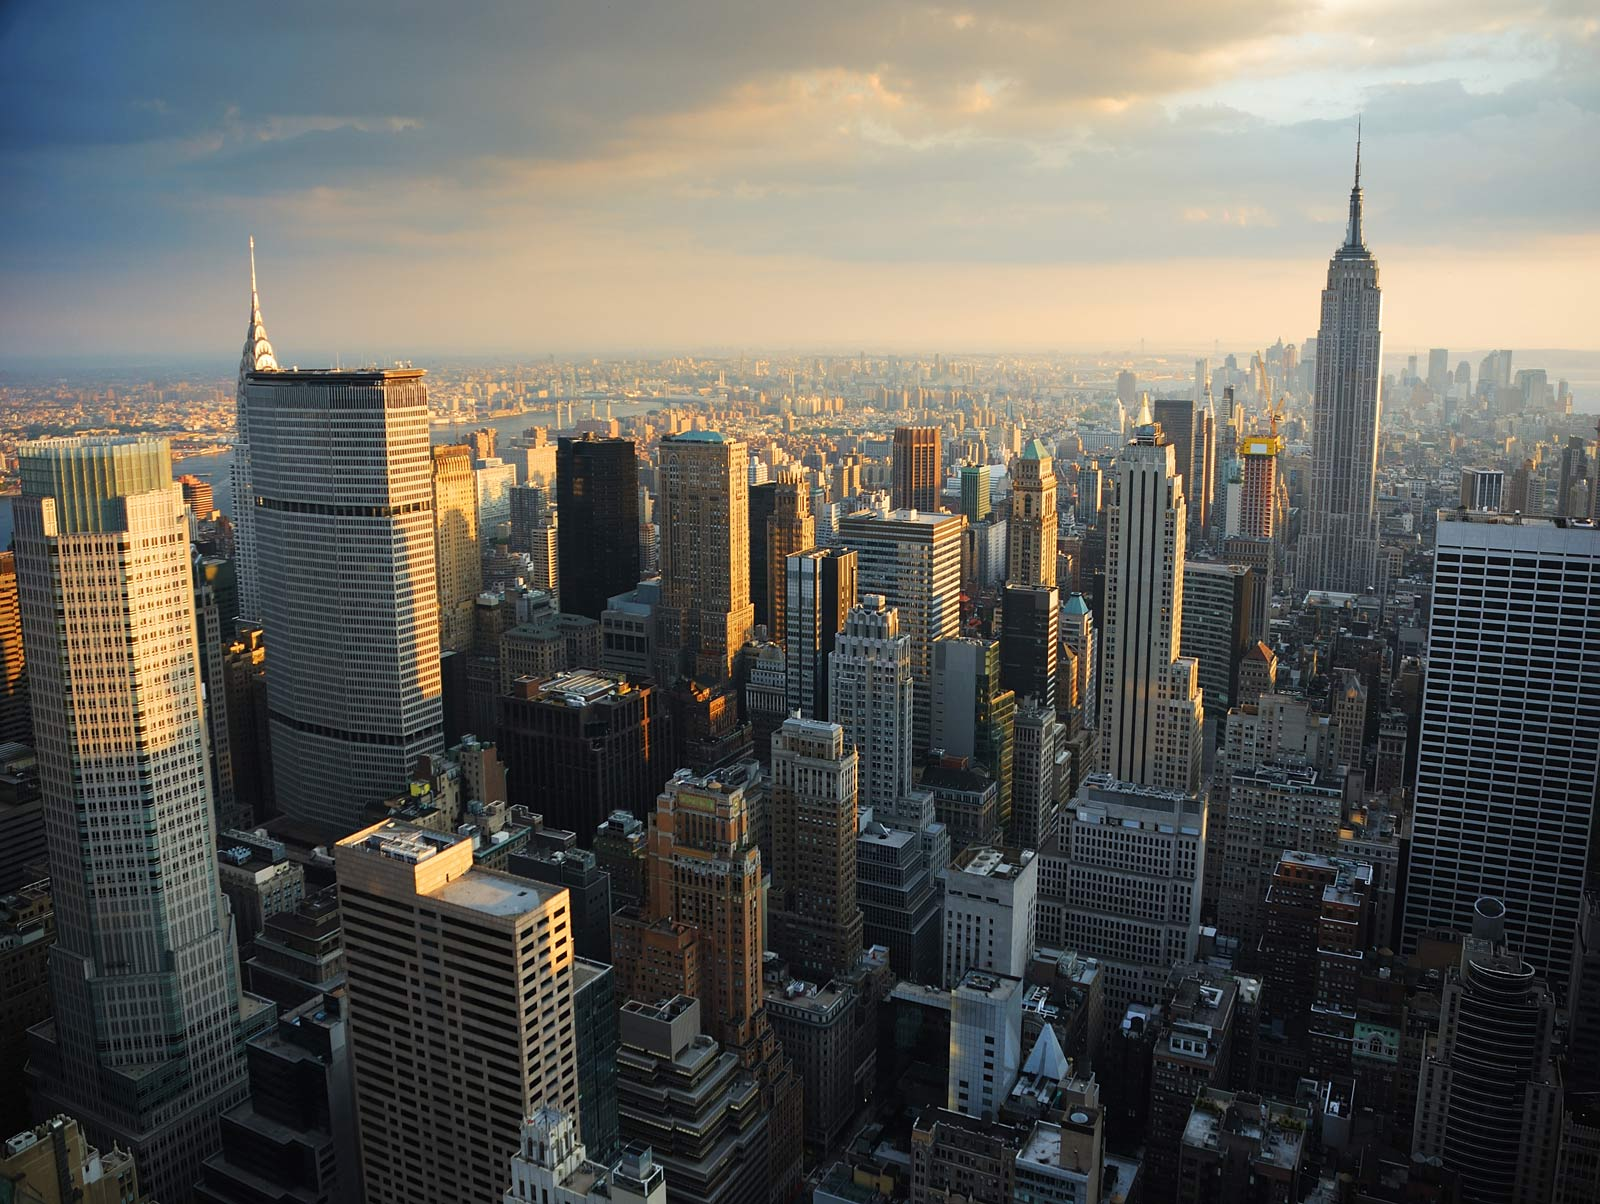
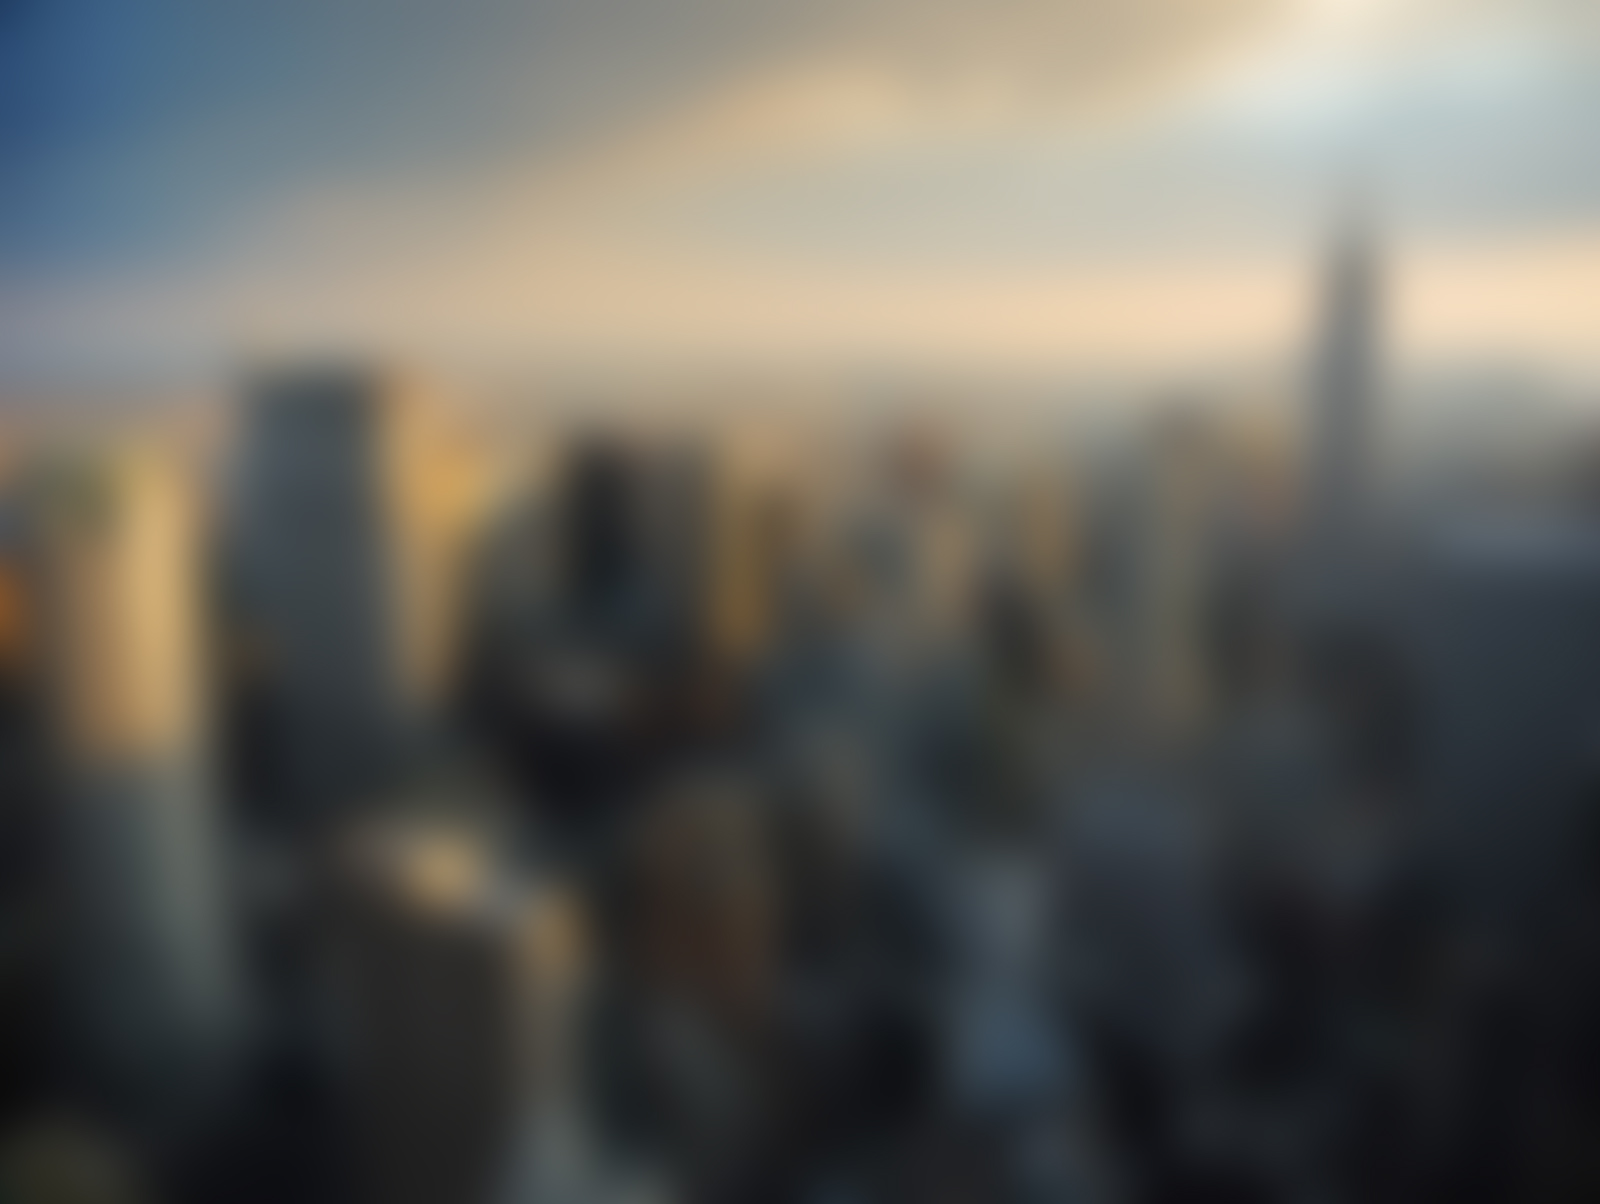
change picture

diff --git a/css/main.css b/css/main.css
@@ -34,7 +34,7 @@ body {
   display: block; }
 
 header {
-  background-color: rgba(0, 0, 0, 0.5);
+  background-color: rgba(0, 0, 0, 0.6);
   position: fixed;
   width: 100%;
   font-size: 20px;
@@ -62,7 +62,7 @@ header {
 
 body > section {
   padding: 100px 0;
-  background-color: rgba(0, 0, 0, 0.5); }
+  background-color: rgba(0, 0, 0, 0.6); }
   body > section h1, body > section h5 {
     text-shadow: 0px 0px 10px black;
     font-weight: 100;
@@ -80,10 +80,21 @@ body > section {
 #Main {
   height: 600px;
   position: relative;
-  background-color: transparent;
-  padding: 0; }
+  padding: 0;
+  background-color: transparent; }
+  #Main::after {
+    background-image: url("../images/main_image_clear.jpg");
+    background-size: cover;
+    display: block;
+    content: "";
+    position: absolute;
+    z-index: -4;
+    top: 70px;
+    left: 0;
+    right: 0;
+    bottom: 150px; }
   #Main .personal-picture {
-    background-image: url("../images/personal_picture.jpg");
+    background-image: url("../images/joshua-weiss.jpg");
     background-size: cover;
     width: 200px;
     height: 200px;
@@ -111,7 +122,7 @@ body > section {
     left: 0;
     right: 0;
     height: 150px;
-    background-color: rgba(0, 0, 0, 0.5); }
+    background-color: rgba(0, 0, 0, 0.6); }
 
 #AboutMe h1 {
   font-size: 40px; }

diff --git a/sass/main.scss b/sass/main.scss
@@ -5,7 +5,7 @@ $bar_color: rgba(#000000, 0.57);
 $hover_bar_color: rgba(#a8a8a8, 0.57);
 $charcole_text: rgb(64, 64, 64);
 $charcole_text_hilight: rgb(142, 142, 142);
-$behind_section: rgba(0, 0, 0, 0.5);
+$behind_section: rgba(0, 0, 0, 0.6);
 $behind_item: rgba(255, 255, 255, 0.7);
 $picture_black_hover: rgba(0, 0, 0, 0.4);
 
@@ -128,11 +128,24 @@ body > section{
 #Main {
   height: 600px;
   position: relative;
-  background-color: transparent;
   padding: 0;
+  background-color: transparent;
+
+  &::after {
+    background-image: url("../images/main_image_clear.jpg");
+    background-size: cover;
+    display: block;
+    content: "";
+    position: absolute;
+    z-index: -4;
+    top: 70px;
+    left: 0;
+    right: 0;
+    bottom: 150px;
+  }
 
   .personal-picture {
-    background-image: url("../images/personal_picture.jpg");
+    background-image: url("../images/joshua-weiss.jpg");
     background-size: cover;
     width: 200px;
     height: 200px;
